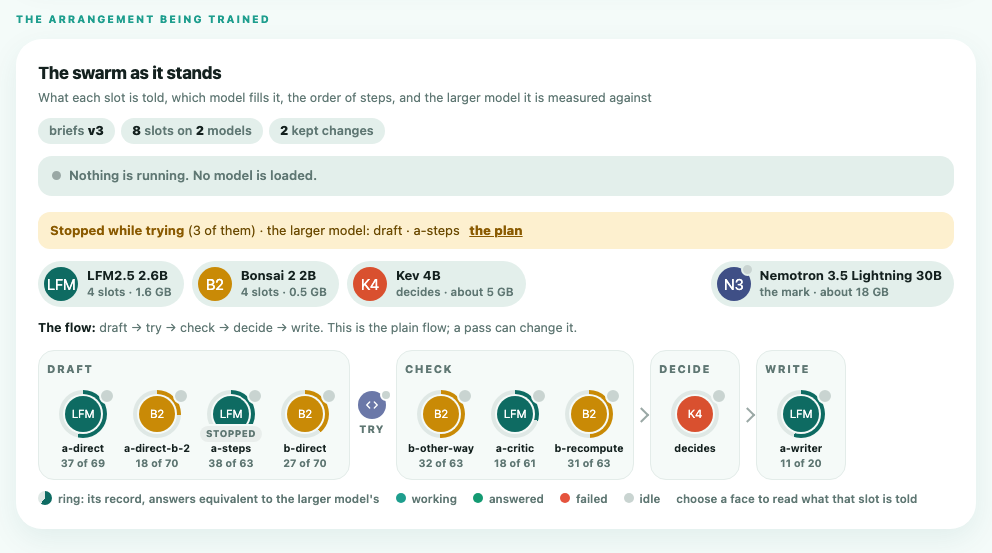
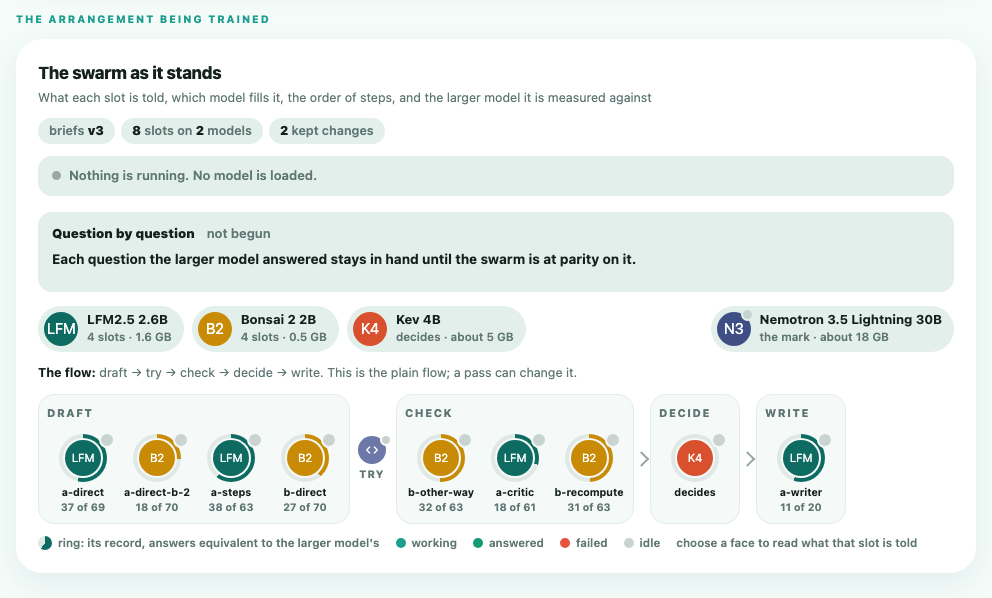
Fix CI on a fresh checkout; drop status labels from faces
- Give the sample data its own ideas, so ui/check.py no longer needs
  this machine's untracked training/state.json
- Syntax-check training/decider.sh in CI
- Show a tried slot with an amber ring instead of a label, and nothing
  on the faces once a session stops

diff --git a/ui/swarm_ui.py b/ui/swarm_ui.py
@@ -284,8 +284,7 @@ button.mav{position:relative;border:0;font:inherit;color:inherit;text-align:left
 .av:has(.live.on) .ring{animation:halo 1.4s ease-out infinite}.av:has(.live.on) .live i{background:var(--teal2)}
 .av:has(.live.done) .live i{background:var(--right)}.av:has(.live.bad) .live i{background:var(--wrong)}
 @keyframes halo{0%{box-shadow:0 0 0 0 color-mix(in srgb,var(--fc) 55%,transparent)}100%{box-shadow:0 0 0 9px color-mix(in srgb,var(--fc) 0%,transparent)}}
-.av .tb{position:absolute;top:40px;left:50%;transform:translateX(-50%);padding:1px 6px;border-radius:999px;background:#fdf0cf;color:#8a5a00;font-size:9.5px;font-weight:800;letter-spacing:.04em;text-transform:uppercase;white-space:nowrap;box-shadow:0 0 0 2px #f5faf8}
-.av .tb.off{background:#e9eeec;color:var(--mist)}
+.av.trying .ring{box-shadow:0 0 0 3px var(--sun),0 0 0 6px #fdf0cf;animation:tr 1.6s ease-in-out infinite}@keyframes tr{50%{box-shadow:0 0 0 3px var(--sun),0 0 0 9px rgba(249,196,64,.15)}}
 .avkey{display:flex;flex-wrap:wrap;gap:6px 16px;margin:10px 0 0;font-size:11.5px;color:var(--mist);font-weight:600}.avkey span{display:inline-flex;align-items:center;gap:6px}
 .avkey i{display:inline-block;width:10px;height:10px;border-radius:50%}.avkey .kr{width:14px;height:14px;background:conic-gradient(var(--lfm) 60%,#dfe8e5 0);border-radius:50%}
 .avdetail{margin-top:12px}.avdetail:empty{display:none}.avdetail .slot{margin:0}
@@ -1409,16 +1408,17 @@ def avatars(d):
         rec = d["record"].get(s["id"])
         judged = rec.get("judged", rec.get("ran", 0)) if rec else 0
         pct = (100.0 * rec["right"] / judged) if judged else None
+        # A CHANGE BEING TRIED ON THIS SLOT, while a session runs: an amber ring round its face, and its tooltip says what. No label
+        # over the name, and nothing once the session has stopped (the question track says where it stopped)
+        trying_here = live_now and s["id"] in trying
         badge = ""
-        if s["id"] in trying:
-            badge = '<span class="tb%s">%s</span>' % ("" if live_now else " off", "trying" if live_now else "stopped")
         tip = "%s · %s · %s%s%s" % (s["id"], name(s["member"]), s.get("purpose") or s["stage"],
                                     (" · equivalent %d of %d judged" % (rec["right"], judged)) if pct is not None else (" · %d answered, not yet judged against the larger model" % rec["ran"]) if rec else "",
-                                    (" · a brief being tried on it" if live_now else " · stopped partway through trying a brief on it") if s["id"] in trying else "")
+                                    " · a change being tried on it" if trying_here else "")
         tpl.setdefault(s["id"], slot_card(s, d))
-        return ('<button type="button" class="av %s%s" data-av="%s" title="%s" aria-label="%s"><span class="ring" style="--p:%s"><span class="face">%s</span></span>%s'
+        return ('<button type="button" class="av %s%s%s" data-av="%s" title="%s" aria-label="%s"><span class="ring" style="--p:%s"><span class="face">%s</span></span>%s'
                 '<span class="nm">%s</span><span class="pc">%s</span><span class="live" data-live="%s"><i></i><span>Idle</span></span></button>'
-                % (s["member"], " norec" if pct is None else "", e(s["id"]), e(tip), e(tip), "%.1f" % (pct or 0), e(fc.get(s["member"]) or initials(name(s["member"]))), badge, slot_name(s["id"]),
+                % (s["member"], " norec" if pct is None else "", " trying" if trying_here else "", e(s["id"]), e(tip), e(tip), "%.1f" % (pct or 0), e(fc.get(s["member"]) or initials(name(s["member"]))), badge, slot_name(s["id"]),
                    ("%d of %d" % (rec["right"], judged)) if pct is not None else "&nbsp;", e(s["id"])))
 
     def special(key, cls, face, label, tip, card_html):
@@ -1567,20 +1567,9 @@ def arrangement(d):
     head = ('<div class="arrh"><div><h3>The swarm as it stands</h3><p class="muted small" style="margin:2px 0 0">What each slot is told, which model fills it, the order of steps, and the larger model it is measured against</p></div>'
             '<div class="achips"><span>briefs <b>v%s</b></span><span><b>%d</b> slots on <b>%d</b> models</span><span><b>%d</b> kept change%s</span></div></div>'
             % (e(str(b.get("version", 1))), len(b["slots"]), models, kept, "" if kept == 1 else "s"))
-    p = read_plan(d)
-    trying = [m for m in (p or {}).get("moves", []) if m.get("status") == "running"]
+    # what is being tried, on which question, and where training stopped: the question track says it (a line here about moves
+    # marked running repeated it, from marks a stopped session leaves behind)
     plan_line = ""
-    if d.get("loop") or session_live():
-        # training question by question: the track says what is being tried, on which question, at which iteration
-        pass
-    elif trying:
-        m0 = trying[0]
-        plan_line = ('<p class="tryline"><b>%s</b>%s · %s%s <a href="#strategy">the plan</a></p>'
-                     % ("Being tried now" if session_live() else "Stopped while trying", (" (%d of them)" % len(trying)) if len(trying) > 1 else "", e(m0.get("what", "")), (" · " + e(m0["slot"])) if m0.get("slot") else " · " + e(m0.get("technique", ""))))
-    elif p and p.get("moves"):
-        nxt = next((m for m in p["moves"] if m.get("status") == "planned"), None)
-        if nxt:
-            plan_line = '<p class="tryline"><b>Next in the plan</b> · %s <a href="#strategy">the plan</a></p>' % e(nxt.get("what", ""))
     one = ('<div class="panel arr">%s<div class="now" id="now"><i></i><span>Nothing is running. No model is loaded.</span></div>%s%s%s</div>'
            % (head, question_track(d), plan_line, avatars(d)))
     return '%s<h2 id="strategy">The plan being carried out</h2><div id="plan">%s</div>' % (one, plan_block(d))

diff --git a/ui/check.py b/ui/check.py
@@ -109,9 +109,9 @@ with tempfile.TemporaryDirectory() as tmp:
     plan_live = get(base + "/fragment/plan")[1]
     arr_live = swarm_ui.arrangement(data.load(root))
     swarm_ui.run_state = was_rs
-    check("a move a trainer marked as being measured says so only while a session runs: once the session has stopped, it says it was stopped partway, and the arrangement says what it stopped while trying (while a session runs, the question track says what is being tried)",
+    check("a move a trainer marked as being measured says so only while a session runs: once the session has stopped, it says it was stopped partway, and the swarm's card says it through the question track alone: no line of moves marked running, and no label on a face",
           "Being measured" in plan_live and "Stopped partway" not in plan_live and 'id="qtrack"' in arr_live and "Being tried now" not in arr_live
-          and "Stopped partway" in plan and ">Being measured<" not in plan and "stopped partway: " in plan and "Stopped while trying" in arr_stopped and "Being tried now" not in arr_stopped, plan[:200])
+          and "Stopped partway" in plan and ">Being measured<" not in plan and "stopped partway: " in plan and 'id="qtrack"' in arr_stopped and "Stopped while trying" not in arr_stopped and "Being tried now" not in arr_stopped and 'class="tb' not in arr_stopped, plan[:200])
     check("the plan of the pass in hand is on the page as it stands: what the measurement showed, each move in order with the slot, the model, the technique, the paper it came from and why it was chosen, and what became of it",
           "The plan for pass 5" in html and "What the measurement showed" in plan and "no slot had the larger model" in plan.lower().replace("&#x27;", "'") and plan.count("<li class=") == 5 and "Stopped partway" in plan and ">Kept<" in plan and ">Not kept<" in plan
           and "arxiv.org/abs/2609.14412" in plan and "a-steps (draft, LFM2.5 2.6B)" in plan and "Chosen because of: no slot had the answer" in plan and "The measurement does not point at it" in plan

diff --git a/ui/sample.py b/ui/sample.py
@@ -49,9 +49,13 @@ def main(dest, config=None):
         shutil.copy(HERE / "src" / "config.json", dest / "src" / "config.json")
     for f in (HERE / "training" / "candidates").glob("*.json"):
         shutil.copy(f, dest / "training" / "candidates" / f.name)
-    # (training/state.json holds only what was read once a real pass has run: the rest is given here, as a pass begins with it)
-    state = {"pass": 0, "target": "", "seeds": {"train": 1009, "held": 7919}, "focus": {}, "tried": {}, "order": [], "questions": [], "seen": [], "ideas": [], "history": [],
-             **(json.loads((HERE / "training" / "state.json").read_text()) if (HERE / "training" / "state.json").exists() else {})}
+    # the made-up state is the sample's own, whatever this machine's training has read: four ideas from the reading, as a pass
+    # that has read arXiv leaves them (training/state.json is this machine's, and is not committed)
+    state = {"pass": 0, "target": "", "seeds": {"train": 1009, "held": 7919}, "focus": {}, "tried": {}, "order": [], "questions": [], "seen": [], "history": [],
+             "ideas": [{"pass": 1, "from": "2610.21290", "slot": "a-critic", "name": "one worked answer for each different answer", "hash": "1a526401df199dd1"},
+                       {"pass": 1, "from": "2608.23541", "slot": "a-critic", "name": "check for rules that are easy to find broken", "hash": "fbce5f121d6adbac"},
+                       {"pass": 1, "from": "2607.16727", "slot": "a-steps", "name": "a checkable statement after every step", "hash": "a75c04e633ec41bb"},
+                       {"pass": 1, "from": "2603.16045", "slot": "b-direct", "name": "the shortest brief that still asks for a test", "hash": "c3f7a2e81b9d4f60"}]}
     briefs = json.loads((HERE / "src" / "briefs.json").read_text())
     chosen = json.loads((dest / "src" / "config.json").read_text())
     target = chosen["target"]

diff --git a/README.md b/README.md
@@ -336,7 +336,7 @@ The pictures here and at the top of this page show it in pass 6 of a real sessio
 line what it holds while folded; open or folded is kept on the device.
 
 <p align="center">
-  <img src="docs/images/dashboard-arrangement.png" alt="The arrangement being trained, as faces: the swarm as it stands (briefs v3, 8 slots on 2 models, 2 kept changes), a line saying nothing is running, and what it stopped while trying; a roster of the models (LFM2.5 2.6B, Bonsai 2 2B, Kev 4B, and Nemotron 3.5 Lightning 30B, the mark); then the flow in one row, Draft, a marker for the sandbox, Check, Decide, Write, each slot a face in its model&#39;s colour with its whole name, its record as a ring (a-direct 37 of 69, a-steps 38 of 63) and a dot for what it is doing; a-steps carries a badge saying the session stopped while a brief was being tried on it" width="860">
+  <img src="docs/images/dashboard-arrangement.png" alt="The arrangement being trained, as faces: the swarm as it stands (briefs v3, 8 slots on 2 models, 2 kept changes), a line saying nothing is running, and the question track, not begun, saying that each question stays in hand until the swarm is at parity on it; a roster of the models (LFM2.5 2.6B, Bonsai 2 2B, Kev 4B as the decider, and Nemotron 3.5 Lightning 30B, the mark); then the flow in one row, Draft, a marker for the sandbox, Check, Decide, Write, each slot a face in its model&#39;s colour with its whole name, its record as a ring (a-direct 37 of 69, a-steps 38 of 63) and a dot for what it is doing. While a change is tried on a slot its face has an amber ring" width="860">
 </p>
 
 <p align="center"><em>The arrangement: every slot as a face of its model, in the step of the flow it stands in. Choosing one opens what it is told.</em></p>
